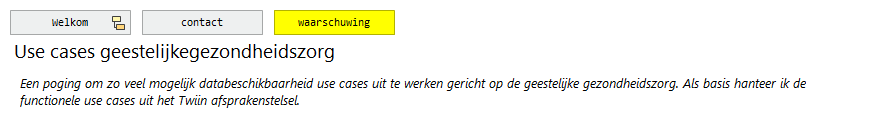
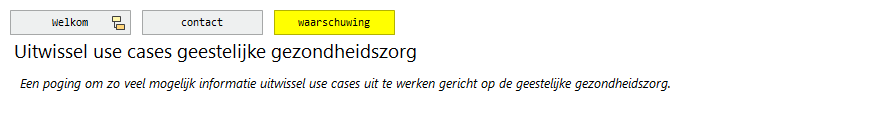
html publicatie
- Begonnen met verdiepen in EIF
- Uitwissel use case canvas verder uitgewerkt

Changed region(s): [[0.2136, 0.5891, 0.9153, 0.7132], [0.0305, 0.3411, 0.4881, 0.4961], [0.0, 0.7442, 0.3356, 0.8372]]

diff --git a/docs/id-9d92294a830c447d8011259ae5362022/views/id-4e6e3c29a0c04daf85ef635fd052e790.html b/docs/id-9d92294a830c447d8011259ae5362022/views/id-4e6e3c29a0c04daf85ef635fd052e790.html
@@ -36,8 +36,8 @@
 				      <!-- Other diagram objects -->
 				          <area shape="rect" coords="274,10,395,35" href="../objects/id-bab7747508984226a31370dbf5e1b488.html" target="element" >
 				          <area shape="rect" coords="142,10,263,35" href="../objects/id-ea484c28709a445b9575bd51c53c8fc3.html" target="element" >
-				          <area shape="rect" coords="10,70,875,119" href="../objects/id-de6b6ed54585409b825bfd70ebdcd00c.html" target="element" >
-				          <area shape="rect" coords="10,34,299,66" href="../objects/id-e7da4c12392b4e4f945ba029c9b7debb.html" target="element" >
+				          <area shape="rect" coords="10,70,647,107" href="../objects/id-de6b6ed54585409b825bfd70ebdcd00c.html" target="element" >
+				          <area shape="rect" coords="10,34,407,66" href="../objects/id-e7da4c12392b4e4f945ba029c9b7debb.html" target="element" >
 
 			   </map>
 
@@ -110,7 +110,7 @@
 								</thead>
 								<tbody>
 									        <tr>
-									           <td> <a href="../objects/id-e7da4c12392b4e4f945ba029c9b7debb.html" target="element"> Use cases gehandicaptenzorg </a> </td>
+									           <td> <a href="../objects/id-e7da4c12392b4e4f945ba029c9b7debb.html" target="element"> Uitwissel use cases gehandicaptenzorg </a> </td>
 									           <td> <a href="../objects/id-e7da4c12392b4e4f945ba029c9b7debb.html" target="element" class="i18n-elementtype-DiagramModelGroup"> </a> </td>
 									        </tr>
 

diff --git a/docs/id-9d92294a830c447d8011259ae5362022/objects/id-2627f02693ce45d8b44b0f1b4e593333.html b/docs/id-9d92294a830c447d8011259ae5362022/objects/id-2627f02693ce45d8b44b0f1b4e593333.html
@@ -2,7 +2,7 @@
 <html class="frame" lang="en">
 <head>
 	<meta http-equiv="Content-Type" content="text/html;charset=utf-8">
-	<title>wijzigingen (13-11-2024)</title>
+	<title>wijzigingen (25-11-2024)</title>
 
 	<!-- JQUERY -->
 	<script type="text/javascript" src="../../lib/jquery/jquery.min.js"></script>
@@ -21,7 +21,7 @@
 
 		<div class="panel-heading root-panel-heading">
             <!-- Name -->
-               <b>wijzigingen (13-11-2024)</b>
+               <b>wijzigingen (25-11-2024)</b>
 
             <!-- If a View with Viewpoint -->
 			   (<span class="i18n-elementtype-DiagramModelGroup"></span>)
@@ -47,7 +47,11 @@
 				<!-- Tab panes -->
 				<div class="tab-content">
 					<div role="tabpanel" class="tab-pane active" id="documentation">
-						<div class="convertlinks documentation" style="white-space:pre-wrap">13-11-2024
+						<div class="convertlinks documentation" style="white-space:pre-wrap">25-11-2024
+- Begonnen met verdiepen in EIF
+- Uitwissel use case canvas verder uitgewerkt
+
+13-11-2024
 - Het gehele model enigszins gereorganiseerd zodat de use cases het middelpunt gaan vormen.
 - Canvas gemaakt voor het inzichtelijk maken van iedere use case
 - Begonnen met het voorbereiden van de algemene use cases

diff --git a/docs/id-9d92294a830c447d8011259ae5362022/objects/id-952ef76e230e49189acac47cb80bb76e.html b/docs/id-9d92294a830c447d8011259ae5362022/objects/id-952ef76e230e49189acac47cb80bb76e.html
@@ -47,7 +47,7 @@
 				<!-- Tab panes -->
 				<div class="tab-content">
 					<div role="tabpanel" class="tab-pane active" id="documentation">
-						<div class="convertlinks documentation" style="white-space:pre-wrap">Een poging om zo veel mogelijk databeschikbaarheid use cases uit te werken gericht op de geestelijke gezondheidszorg. Als basis hanteer ik de functionele use cases uit het Twiin afsprakenstelsel.</div>
+						<div class="convertlinks documentation" style="white-space:pre-wrap">Een poging om zo veel mogelijk informatie uitwissel use cases uit te werken gericht op de geestelijke gezondheidszorg.</div>
 					</div>
 					<div role="tabpanel" class="tab-pane" id="properties">
 						<table class="table table-striped table-hover table-condensed">

diff --git a/docs/id-9d92294a830c447d8011259ae5362022/objects/id-d525e3cca28d4ddfbdfcd867384e879d.html b/docs/id-9d92294a830c447d8011259ae5362022/objects/id-d525e3cca28d4ddfbdfcd867384e879d.html
@@ -2,7 +2,7 @@
 <html class="frame" lang="en">
 <head>
 	<meta http-equiv="Content-Type" content="text/html;charset=utf-8">
-	<title>Use cases geestelijkegezondheidszorg</title>
+	<title>Uitwissel use cases geestelijke gezondheidszorg</title>
 
 	<!-- JQUERY -->
 	<script type="text/javascript" src="../../lib/jquery/jquery.min.js"></script>
@@ -21,7 +21,7 @@
 
 		<div class="panel-heading root-panel-heading">
             <!-- Name -->
-               <b>Use cases geestelijkegezondheidszorg</b>
+               <b>Uitwissel use cases geestelijke gezondheidszorg</b>
 
             <!-- If a View with Viewpoint -->
 			   (<span class="i18n-elementtype-DiagramModelGroup"></span>)

diff --git a/docs/id-9d92294a830c447d8011259ae5362022/objects/id-e7da4c12392b4e4f945ba029c9b7debb.html b/docs/id-9d92294a830c447d8011259ae5362022/objects/id-e7da4c12392b4e4f945ba029c9b7debb.html
@@ -2,7 +2,7 @@
 <html class="frame" lang="en">
 <head>
 	<meta http-equiv="Content-Type" content="text/html;charset=utf-8">
-	<title>Use cases gehandicaptenzorg</title>
+	<title>Uitwissel use cases gehandicaptenzorg</title>
 
 	<!-- JQUERY -->
 	<script type="text/javascript" src="../../lib/jquery/jquery.min.js"></script>
@@ -21,7 +21,7 @@
 
 		<div class="panel-heading root-panel-heading">
             <!-- Name -->
-               <b>Use cases gehandicaptenzorg</b>
+               <b>Uitwissel use cases gehandicaptenzorg</b>
 
             <!-- If a View with Viewpoint -->
 			   (<span class="i18n-elementtype-DiagramModelGroup"></span>)

diff --git a/docs/id-9d92294a830c447d8011259ae5362022/views/id-fadc7f78adbb46bdb270df9b224490f5.html b/docs/id-9d92294a830c447d8011259ae5362022/views/id-fadc7f78adbb46bdb270df9b224490f5.html
@@ -110,7 +110,7 @@
 								</thead>
 								<tbody>
 									        <tr>
-									           <td> <a href="../objects/id-d525e3cca28d4ddfbdfcd867384e879d.html" target="element"> Use cases geestelijkegezondheidszorg </a> </td>
+									           <td> <a href="../objects/id-d525e3cca28d4ddfbdfcd867384e879d.html" target="element"> Uitwissel use cases geestelijke gezondheidszorg </a> </td>
 									           <td> <a href="../objects/id-d525e3cca28d4ddfbdfcd867384e879d.html" target="element" class="i18n-elementtype-DiagramModelGroup"> </a> </td>
 									        </tr>
 

diff --git a/docs/id-9d92294a830c447d8011259ae5362022/objects/id-036a11834a7f465a899fb9b505ef1d03.html b/docs/id-9d92294a830c447d8011259ae5362022/objects/id-036a11834a7f465a899fb9b505ef1d03.html
@@ -2,7 +2,7 @@
 <html class="frame" lang="en">
 <head>
 	<meta http-equiv="Content-Type" content="text/html;charset=utf-8">
-	<title>Bottleneck</title>
+	<title>Aandachtspunt</title>
 
 	<!-- JQUERY -->
 	<script type="text/javascript" src="../../lib/jquery/jquery.min.js"></script>
@@ -21,7 +21,7 @@
 
 		<div class="panel-heading root-panel-heading">
             <!-- Name -->
-               <b>Bottleneck</b>
+               <b>Aandachtspunt</b>
 
             <!-- If a View with Viewpoint -->
 			   (<span class="i18n-elementtype-DiagramModelGroup"></span>)
